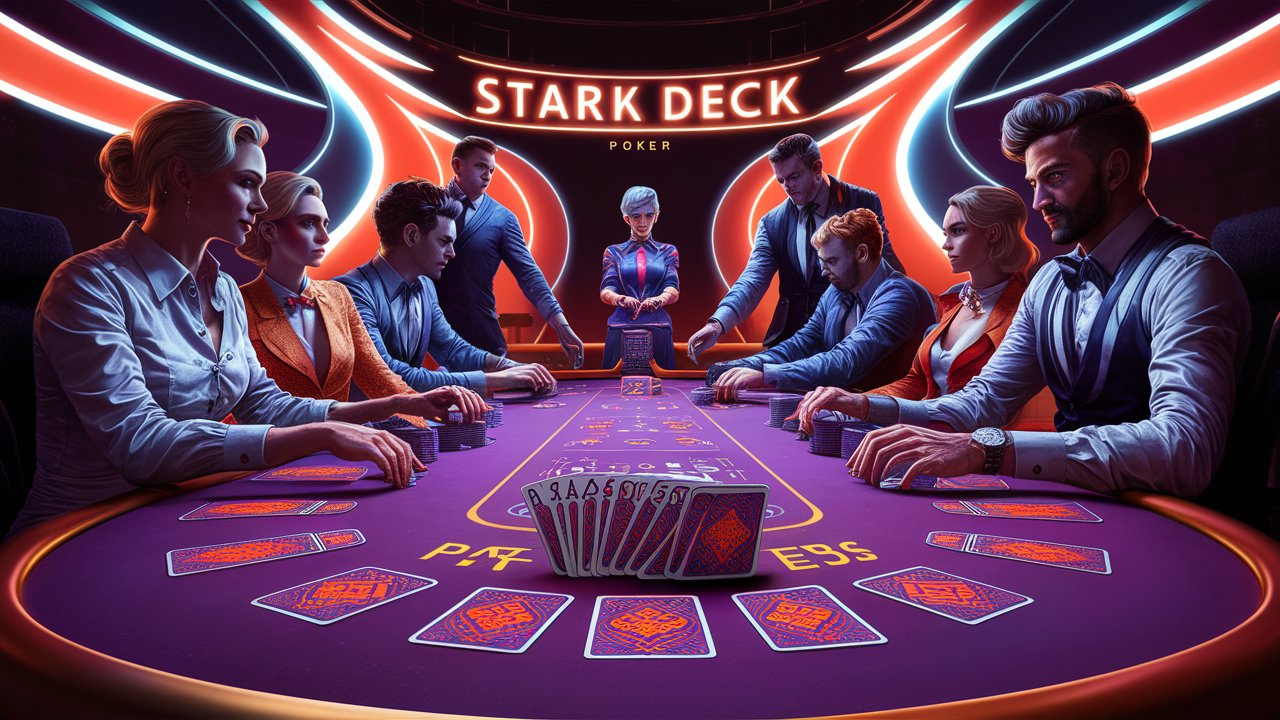
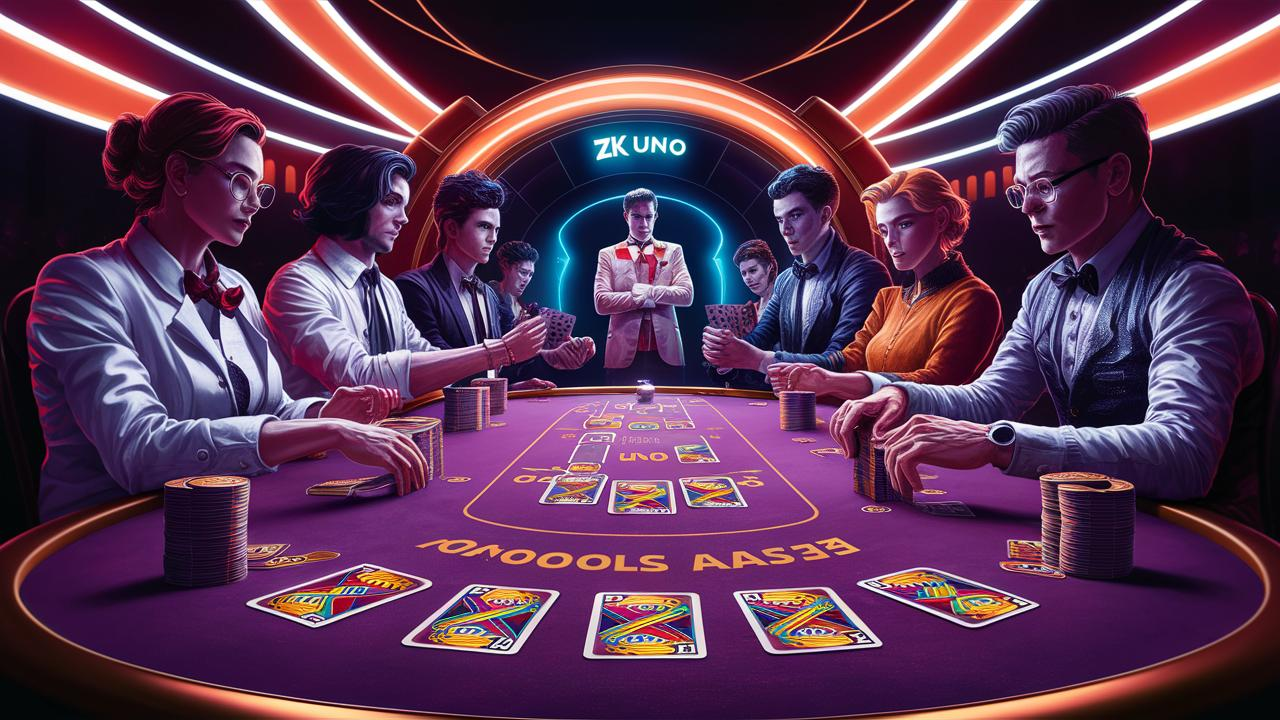
add image

diff --git a/client/src/components/TokenBar.jsx b/client/src/components/TokenBar.jsx
@@ -47,7 +47,7 @@ export default function TokenInfoBar() {
         <div className={`w-[100%] xl:max-w-[1280px] flex justify-between items-center mx-auto pt-5 px-3`}>
             <Link href="/">
                 <h2 className="font-extrabold text-[24px] text-white cursor-pointer">
-                    STARKDECK
+                    ZkUNO
                 </h2>
             </Link>
             <div className="flex gap-4 items-center">
@@ -55,7 +55,7 @@ export default function TokenInfoBar() {
                 <Link href="/create" className="text-white font-semibold text-lg shadow-md hover:underline p-1 rounded-md cursor-pointer">Create</Link >
                 <Link href="/game/join" className="text-white font-semibold text-lg shadow-md hover:underline p-1 rounded-md cursor-pointer">Join</Link >
                 <span className="flex items-center gap-3 border-[1px] p-2 px-4 rounded-xl">
-                    <div className="text-white font-semibold text-lg">{tokenAmount} Stark</div>
+                    <div className="text-white font-semibold text-lg">{tokenAmount} UNO</div>
                     <Dialog open={open} onOpenChange={(state) => setOpen(state)}>
                         <DialogTrigger asChild>
                             <StyledButton className='bg-[#c69532] text-xs'><span className="flex items-center gap-3"><IoMdAdd />Add Fund</span> </StyledButton>

diff --git a/client/src/components/homePage/About.jsx b/client/src/components/homePage/About.jsx
@@ -22,7 +22,7 @@ const About = () => (
                 variants={fadeIn('up', 'tween', 0.2, 1)}
                 className="mt-[8px] font-normal sm:text-[32px] text-[20px] text-center text-secondary-white"
             >
-                <span className="font-extrabold text-white">StarkDeck</span> represents a groundbreaking approach in the online poker industry, merging the thrill of poker with the robust security and anonymity offered by cryptocurrencies. This platform harnesses the power of  {' '}
+                <span className="font-extrabold text-white">ZkUNO</span> represents a groundbreaking approach in the online poker industry, merging the thrill of poker with the robust security and anonymity offered by cryptocurrencies. This platform harnesses the power of  {' '}
                 <span className="font-extrabold text-white">
                     blockchain technology
                 </span>{' '}

diff --git a/client/src/components/AddFund.jsx b/client/src/components/AddFund.jsx
@@ -125,7 +125,7 @@ export default function AddFundPopUp({ openHandler, balance, setBalance }) {
         >
             <div className='w-[560px] m-10 text-center flex flex-col justify-center text-white' data-testid="add fund">
                 <h4 className='text-3xl font-black'>Add Tokens to Your Fund</h4>
-                <p>Boost Your Stack, Elevate Your Game: Add Funds with Ease at starkdeck!</p>
+                <p>Boost Your Stack, Elevate Your Game: Add Funds with Ease at ZkUNO!</p>
                 <section className='flex gap-8 w-fit mx-auto mt-4 mb-4'>
                     <button onClick={(event) => handleClick(event)}>
                         <img src="/chips-blank-1.png" data-value="1" />

diff --git a/client/src/components/homePage/Footer.jsx b/client/src/components/homePage/Footer.jsx
@@ -25,10 +25,10 @@ const Footer = () => (
         <div className="mb-[50px] h-[2px] bg-white opacity-10" />
         <div className="flex items-center justify-between flex-wrap gap-4">
           <h4 className="font-extrabold text-[24px] text-white">
-            StarkDeck
+            ZkUNO
           </h4>
           <p className="font-normal text-[14px] text-white opacity-50">
-            Copyright © 2024 - 2025 StarkDeck. All rights reserved.
+            Copyright © 2024 - 2025 ZkUNO. All rights reserved.
           </p>
           <div className="flex gap-4">
             {socials.map((social) => (

diff --git a/client/src/components/homePage/Navbar.jsx b/client/src/components/homePage/Navbar.jsx
@@ -25,7 +25,7 @@ const Navbar = () => {
         className={`w-full 2xl:max-w-[1280px] mx-auto flex justify-between gap-8`}
       >
         <h2 className="font-extrabold text-[24px] leading-[30.24px] text-white">
-          STARK DECK
+           ZkUNO
         </h2>
         <StyledButton onClick={() => router.push("/play")} roundedStyle='rounded-full' className='bg-[#ff9000] text-2xl'>Start Game</StyledButton>
       </div>

diff --git a/client/src/components/homePage/Hero.jsx b/client/src/components/homePage/Hero.jsx
@@ -4,8 +4,8 @@ import styles from '../styles/index';
 import Spline from '@splinetool/react-spline';
 
 const Hero = () => (
-  <section className={`sm:pb-16 xs:pb-8 pb-12 `}>
-    <Spline scene="https://prod.spline.design/Y4oJm9uU2poWJFLm/scene.splinecode" />
+  <section className={`sm:pb-16 xs:pb-8 pb-12 text-7xl text-center text-white font-bold`}>
+    ZkUNO
   </section>
 );
 

diff --git a/client/src/constants/index.js b/client/src/constants/index.js
@@ -2,6 +2,6 @@ export const socials = [
     {
       name: 'github',
       url: '/github.png',
-      link: 'https://github.com/Saurus9290/StarkDeck'
+      link: 'https://github.com/ayush4345/zkUNO'
     },
   ];

diff --git a/README.md b/README.md
@@ -1,36 +1,5 @@
-StarkDeck
-Overview
-StarkDeck represents a groundbreaking approach in the online poker industry, merging the thrill of poker with the robust security and anonymity offered by cryptocurrencies. This platform harnesses the power of blockchain technology to create a decentralized, transparent, and secure environment for poker enthusiasts worldwide.
+## ZkUNO
 
-StarkDeck Architecture
-Key Features
-Decentralized Gaming: Built on the StarkNet blockchain, StarkDeck ensures a tamper-proof gaming environment, free from centralized control.
-Secure Transactions: Utilizes cryptocurrencies for transactions, providing instant and secure means of deposits and withdrawals.
-Anonymity: Players enjoy the freedom to play anonymously, safeguarding their personal information.
-Provably Fair Gameplay: Every hand in the game is demonstrably fair, ensuring an equal chance of winning for all participants.
-User-Friendly Interface: The platform offers a seamless and immersive poker experience, accessible to both experienced players and novices.
+### Overview
+Zero-Knowledge UNO (ZK UNO) is a cutting-edge, multiplayer digital adaptation of the classic UNO game, now enhanced with advanced Zero-Knowledge Proofs (ZKPs) technology to ensure privacy, fairness, and security in every game. Whether you're a casual player or a competitive strategist, ZK UNO offers a revolutionary gaming experience that combines the fun of UNO with the power of blockchain technology
 
-Technical Architecture
-Frontend (NextJS)
- Wallet Integration: Enables user authentication through Wallet, ensuring secure access to the platform.
-Table Creation: Players can create custom poker tables, specifying parameters like bids and number of rounds.
-Game Page: Post-table creation, players engage in the game, where the frontend interacts with smart contracts for the game logic.
-Backend (NodeJS)
-Blockchain Communication: Facilitates interaction between the frontend and the StarkNet blockchain.
-Session Management: Manages user sessions for seamless transitions across the platform.
-Smart Contracts (zk-Proofs with Cairo)
-Game Logic: Implements the core poker game rules and mechanics, deploying these on the StarkNet blockchain for decentralized execution.
-StarkNet Blockchain
-Smart Contract Deployment: Hosts the smart contracts, ensuring a decentralized and secure gaming process.
-
-Usage and Gameplay
-Getting Started
-Wallet Login: Players begin by logging in via Wallet, which handles user authentication.
-Table Creation: Users can create a poker table with specific game parameters.
-Gameplay: Players are directed to the game page after table selection, engaging in poker through interactions with smart contracts.
-Formats
-StarkDeck offers diverse game formats, including:
-
-Ring Games: Flexible gameplay similar to a test match in cricket.
-Multi-Table Tournaments: Competitive play with increasing blinds, akin to one-day cricket matches.
-Sit N Go’s: Short, action-packed games comparable to T20 cricket.
